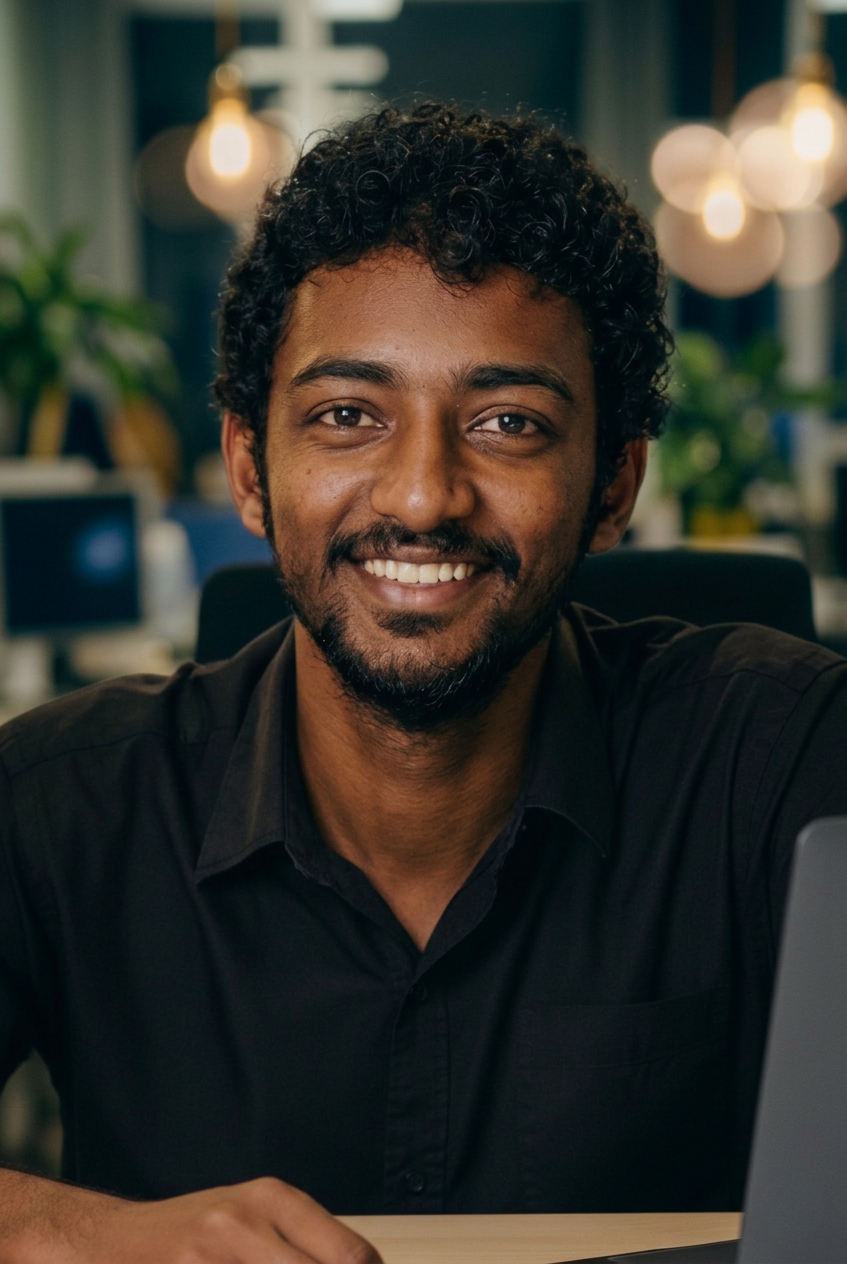
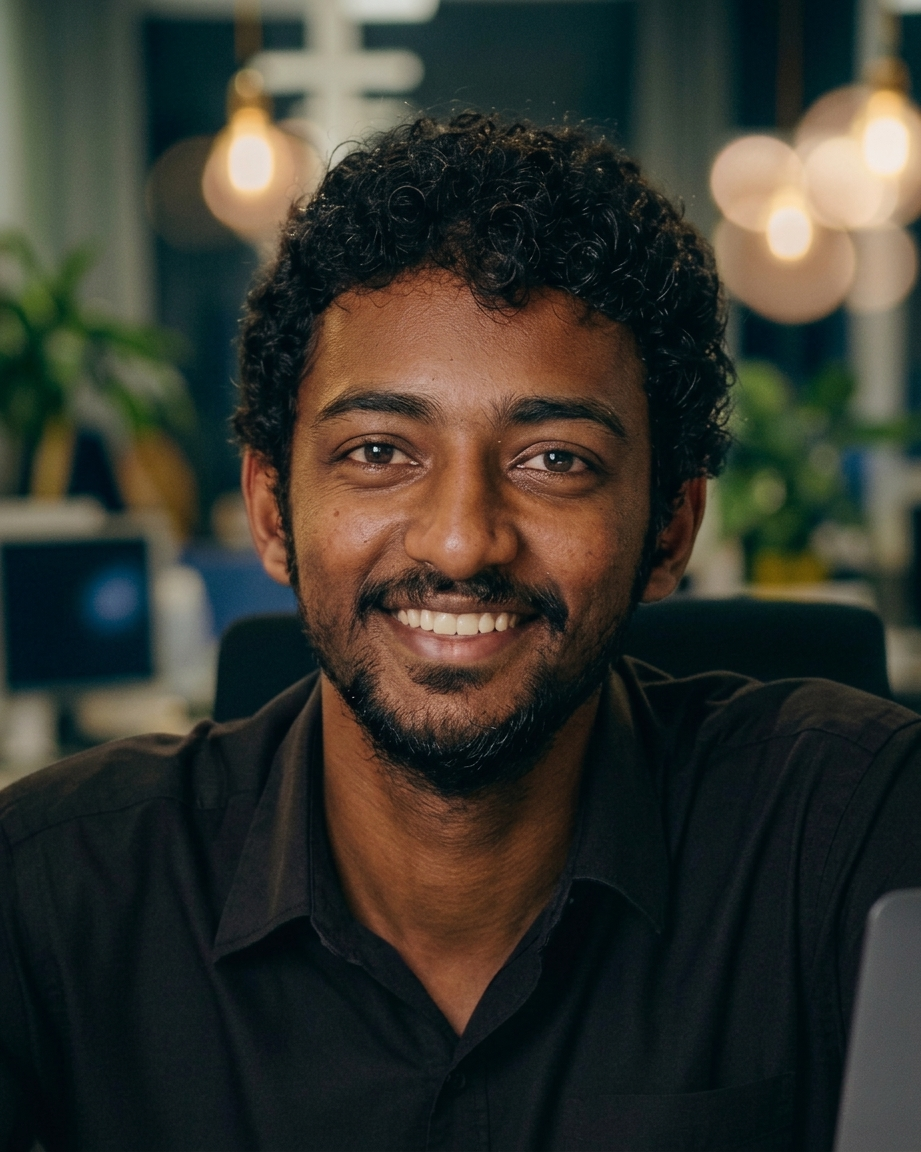
Organize: Move assets to subfolders and update file paths

diff --git a/src/App.tsx b/src/App.tsx
@@ -23,6 +23,7 @@ import {
 } from "lucide-react";
 import { PROJECTS, EXPERIENCES, SOCIALS } from "./constants";
 
+// Initialize EmailJS
 emailjs.init('7MuJJ8-sp_NphQIbI');
 
 const Navbar = () => (
@@ -102,7 +103,7 @@ const Hero = () => (
         transition={{ duration: 0.6, delay: 0.2 }}
         className="relative w-full max-w-md mx-auto lg:max-w-none"
       >
-        <div className="aspect-[848/1264] rounded-[2rem] overflow-hidden border border-white/10 relative group bg-white/5">
+        <div className="aspect-[1080/1350] rounded-[2rem] overflow-hidden border border-white/10 relative group bg-white/5">
           <img 
             src="https://raw.githubusercontent.com/gedionzewdu/portfolio/main/assets/Gedi%20Office%20Shot.png" 
             alt="Gedion Zewdu" 
